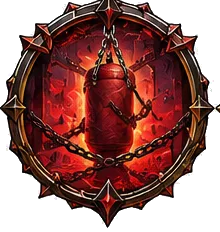
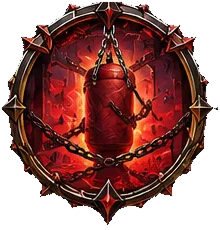
Clean up trophy emblem edges
The first extraction pass used a hard binary alpha cutoff, leaving a
light checkerboard-contaminated fringe and jagged pixel-stair edges
around every badge. Erode each badge's alpha mask by 2px to strip the
contaminated boundary ring, then feather the eroded edge for real
anti-aliasing instead of a hard cutoff. Bumped EMBLEM_CACHE_BUST again.

diff --git a/cloudflare-worker/relay.js b/cloudflare-worker/relay.js
@@ -1917,7 +1917,7 @@ function sumField(rows, field) {
 // neighboring badge's frame along with the real one. Re-cropped with a
 // nearest-seed (watershed) split instead of a fixed grid, so a touching
 // pixel is assigned to whichever badge it actually belongs to.
-const EMBLEM_CACHE_BUST = "7";
+const EMBLEM_CACHE_BUST = "8";
 function emblemUrl(path) {
   return path ? `${path}?v=${EMBLEM_CACHE_BUST}` : path;
 }
